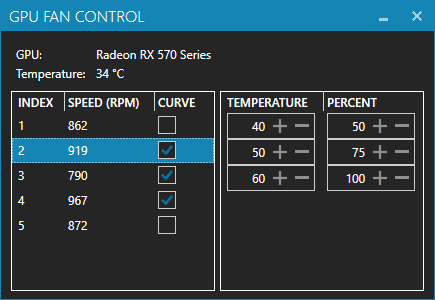
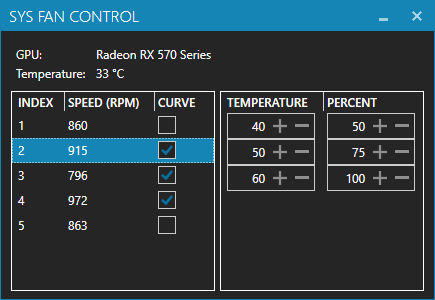
Update window title

diff --git a/SysFanControl/MainWindow.xaml b/SysFanControl/MainWindow.xaml
@@ -8,7 +8,7 @@
         mc:Ignorable="d"
         Background="#252525"
         ResizeMode="CanMinimize" WindowStartupLocation="CenterScreen"
-        Title="GPU Fan Control" Width="435" Height="300">
+        Title="Sys Fan Control" Width="435" Height="300">
     <Grid Height="270">
         <Label x:Name="labelGPULabel" Content="GPU:" HorizontalAlignment="Left" Margin="10,10,0,0" VerticalAlignment="Top"/>
         <Label x:Name="labelGPU" Content="{Binding GPU.Name}" HorizontalAlignment="Left" Margin="90,10,0,0" 
